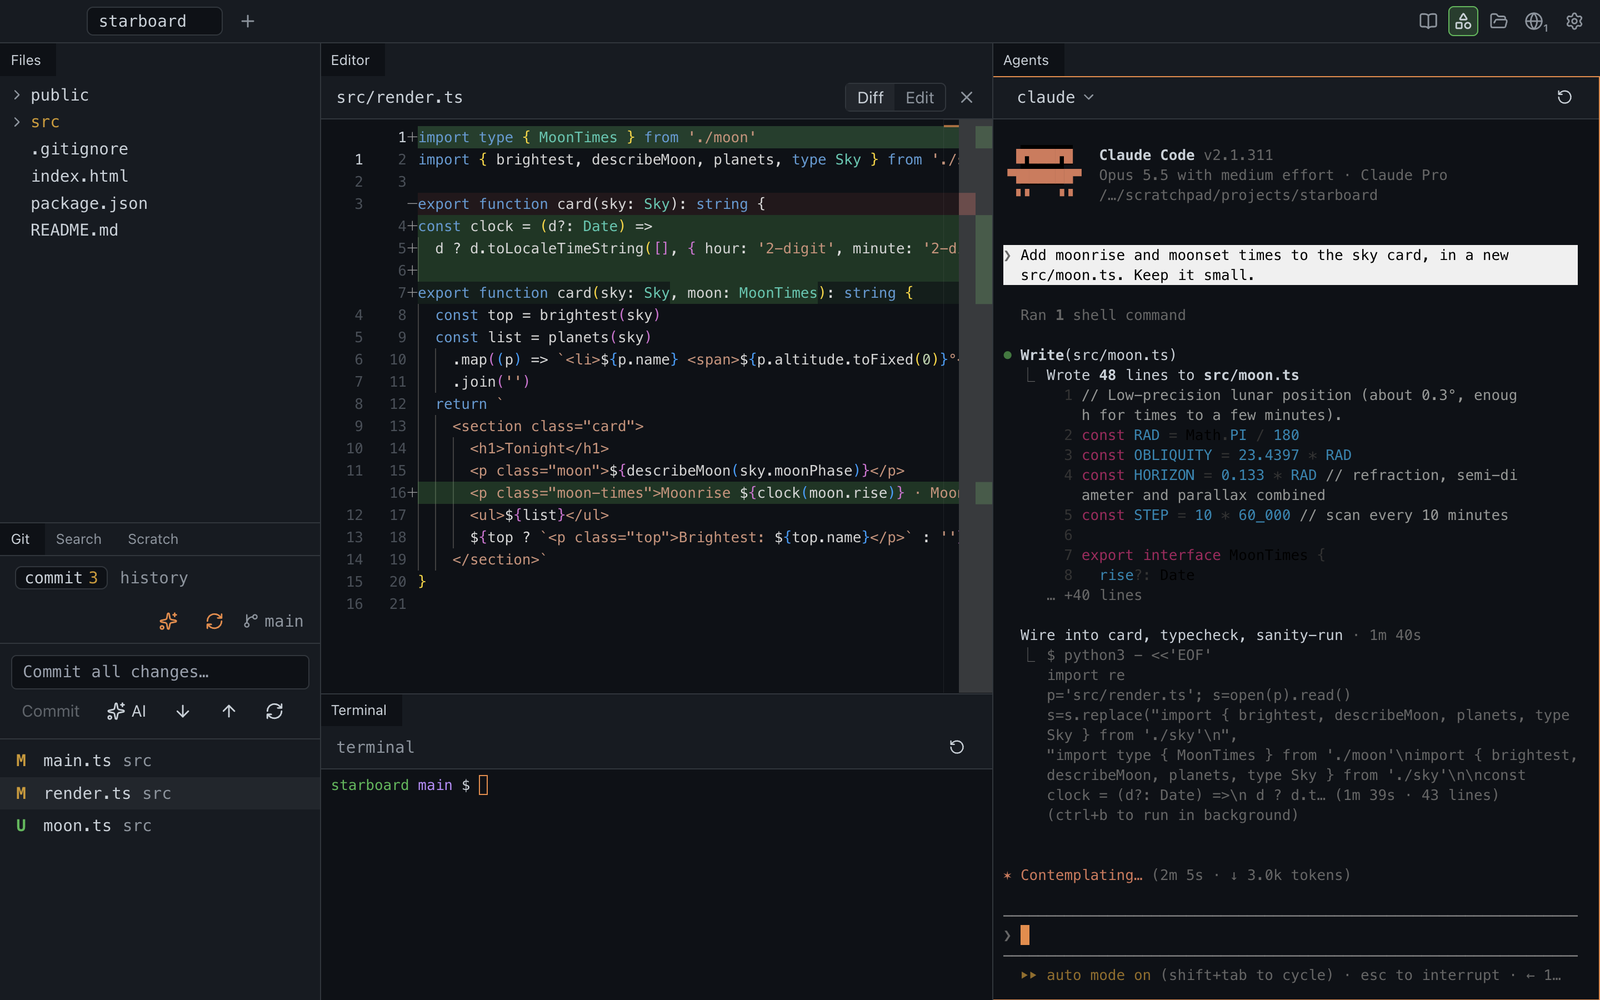
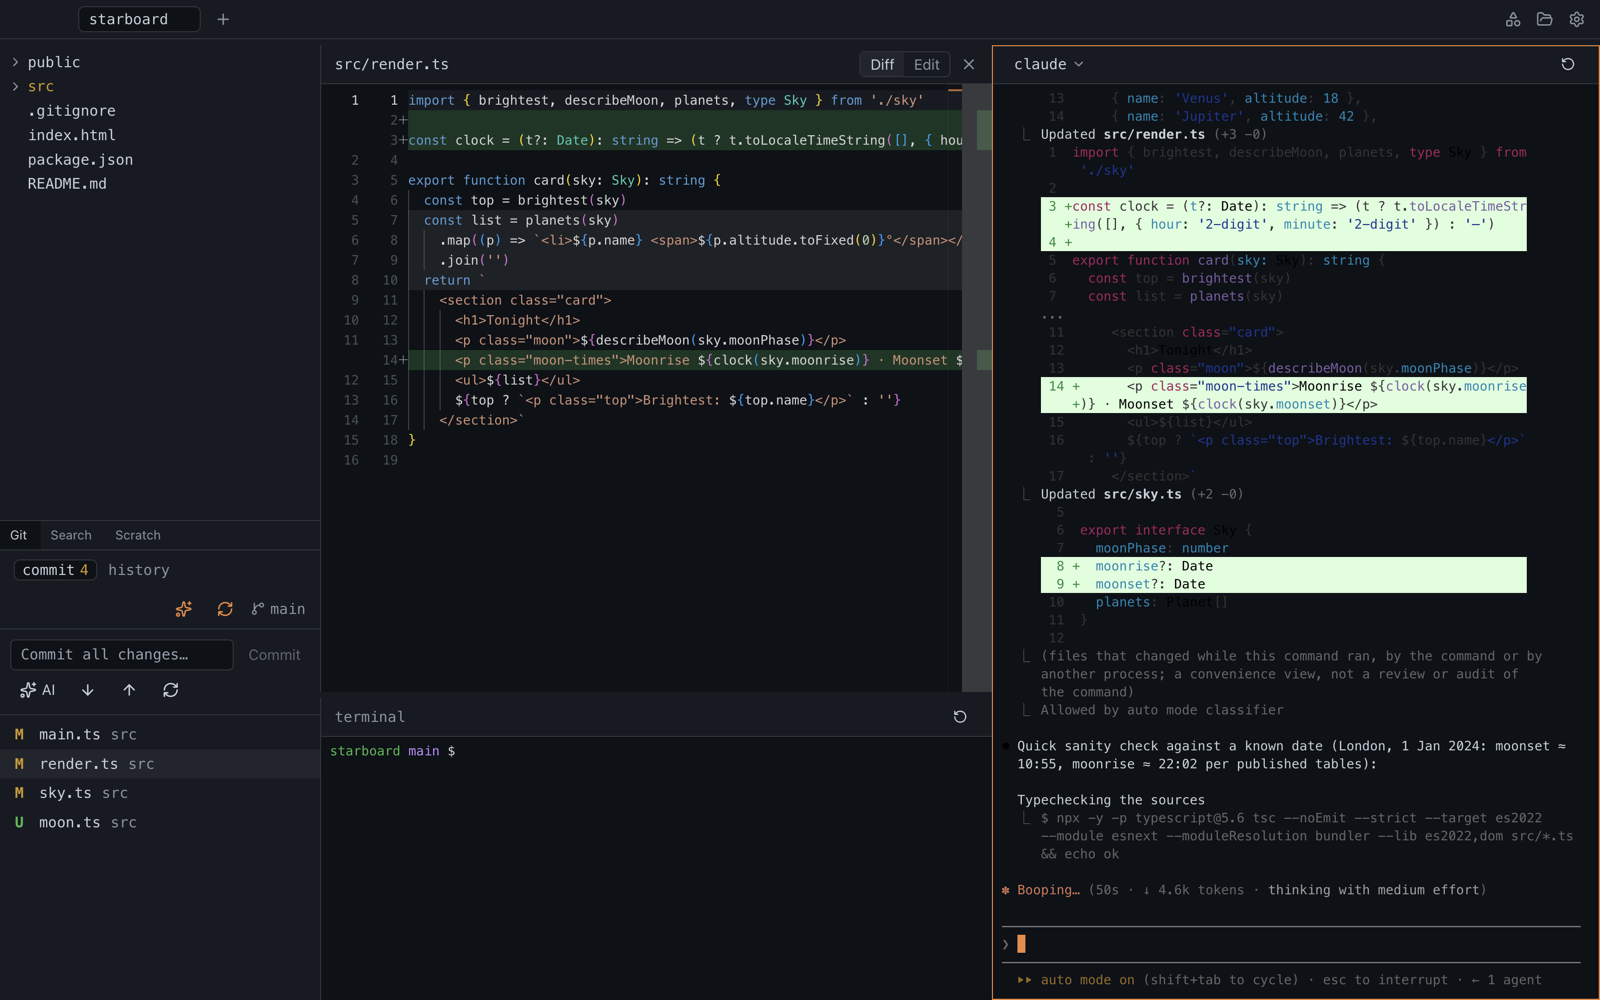
Hide the tab bar of a section alone in its group
A one-tab group keeps a thin strip that shows the tab on hover, so it can
still be dragged; stacking another section there brings the bar back.
Retakes the workspace screenshot.

diff --git a/src/renderer/src/index.css b/src/renderer/src/index.css
@@ -296,6 +296,33 @@ html {
   display: none;
 }
 
+/* A section alone in its group has nothing to switch to, so its tab bar shrinks to a thin strip
+   that shows the tab on hover, over the section's top edge: it can still be dragged away, and
+   dropping another section on it brings the bar back. dockview sizes the content from the bar's
+   real height, so the strip is all it takes; the tab overflows it, and the group must let it. */
+.cc-dock .dv-groupview:has(> .dv-single-tab) {
+  overflow: visible;
+}
+.cc-dock .dv-tabs-and-actions-container.dv-single-tab {
+  position: relative;
+  z-index: 7;
+  height: 6px;
+  overflow: visible;
+}
+.cc-dock .dv-single-tab > * {
+  height: var(--dv-tabs-and-actions-container-height);
+  background-color: var(--panel);
+  border-bottom: 1px solid var(--line);
+  opacity: 0;
+  pointer-events: none;
+  transition: opacity 0.1s;
+}
+.cc-dock .dv-single-tab:hover > * {
+  opacity: 1;
+  pointer-events: auto;
+  transition-delay: 0.15s;
+}
+
 /* The section you're in (⌃⌘arrows move it) gets an accent frame. An overlay, so the editor's and
    terminal's backgrounds can't paint over it and nothing shifts. On the section's own element:
    dockview renders panel content in an overlay outside its group, tab bar and all. */

diff --git a/README.md b/README.md
@@ -105,7 +105,7 @@ Plugins add their own shortcuts, listed under View. The theme is in Settings: Au
 
 ## Layout
 
-The workspace is made of seven sections: Files, Search, Editor, Terminal, Agents, Git and Scratch. Each is a tab. Drag a tab onto another group to stack them, onto a group's edge to split it, or drag the borders to resize. Whatever you arrange is kept: quitting and reopening brings it back exactly, sizes included.
+The workspace is made of seven sections: Files, Search, Editor, Terminal, Agents, Git and Scratch. Each is a tab. A section alone in its group shows only a thin strip where its tab bar would be; hover it to bring up the tab. Drag a tab onto another group (or onto the middle of a section) to stack them, onto a group's edge to split it, or drag the borders to resize. Whatever you arrange is kept: quitting and reopening brings it back exactly, sizes included.
 
 Settings › Layout switches between layouts:
 

diff --git a/CHANGELOG.md b/CHANGELOG.md
@@ -2,6 +2,10 @@
 
 Every change to the app bumps the version here and in `package.json` (see Versioning in the README). The newest version comes first. The app shows the newest section's lines when it launches on a new version.
 
+## 1.40.0 — 2026-11-15
+
+- A section alone in its group no longer spends a row on a tab bar: a thin strip stays, and hovering it shows the tab to drag. Stack another section there and the tab bar comes back.
+
 ## 1.39.0 — 2026-11-15
 
 - Closing a project (⇧⌘W), resetting settings or the layout, and removing a plugin now ask in cuckcode's own dialog instead of a macOS sheet. Esc cancels, Return confirms.
